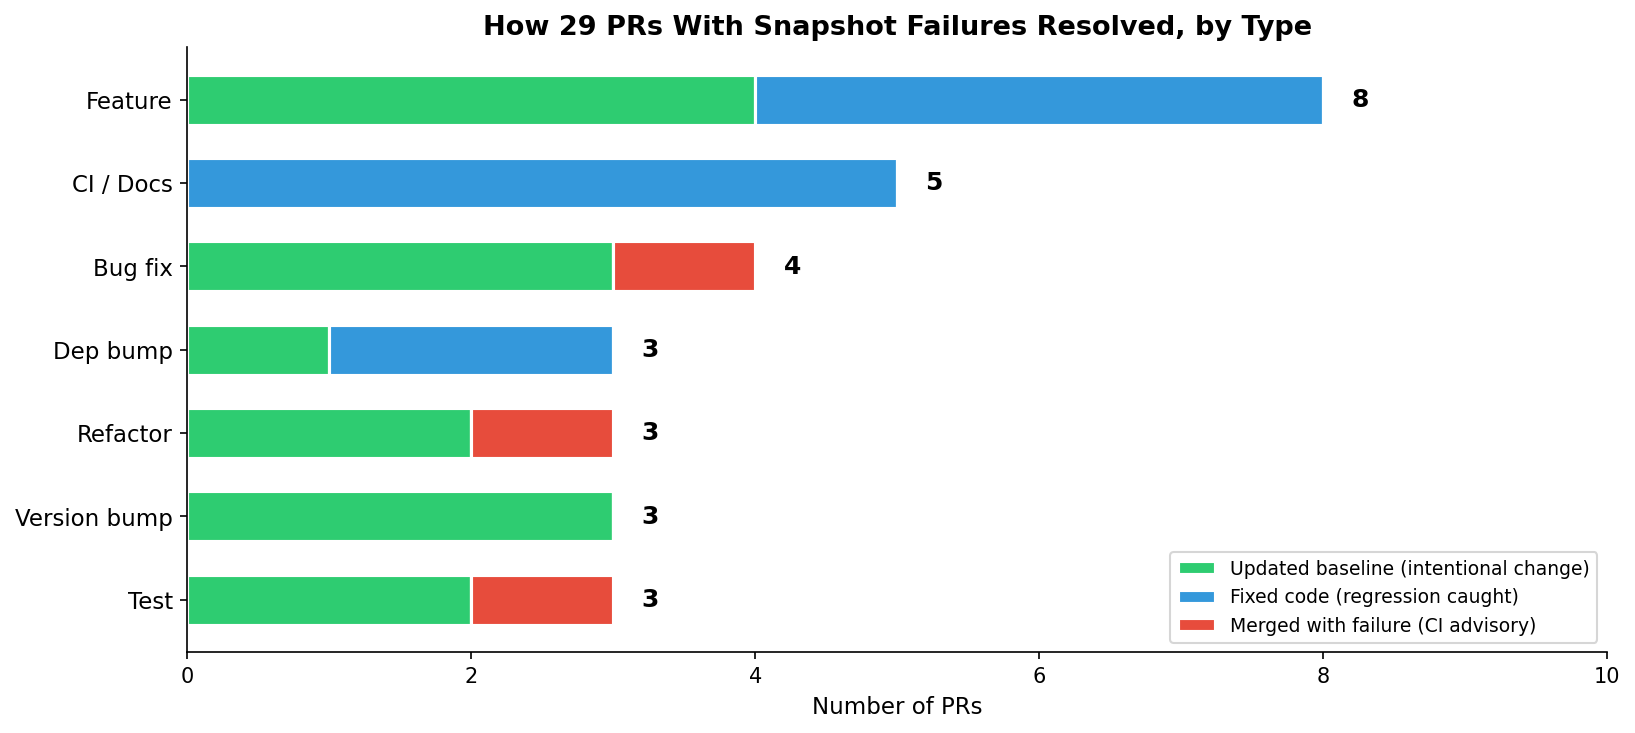
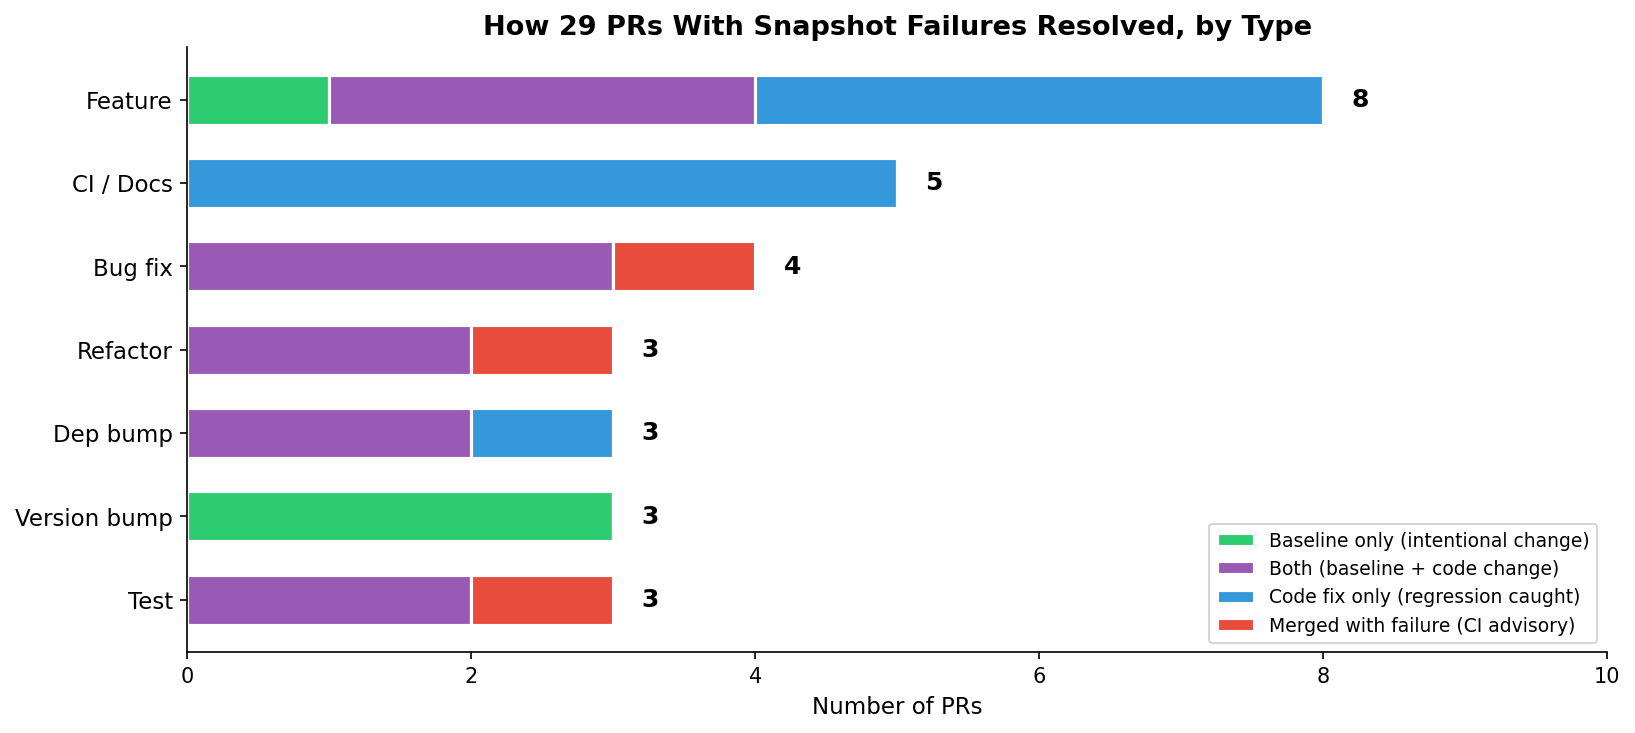
Add 'both' category to CI outcome classification
The old classifier forced a binary choice: if the PR had snapshot file
changes it was 'resolved_baseline', otherwise 'resolved_code_fix'.
This hid 12 PRs that did both (updated baselines AND changed code).

New four-category breakdown:
  4 (14%) baseline only
  12 (41%) both (baseline + code change)
  10 (34%) code fix only
  3 (10%) merged with failure

Uses test-level CI logs when available (9 PRs), falls back to
file-level heuristic (does the final diff contain both .svg snapshot
files and code files?) for the remaining 20 with expired logs.

diff --git a/scripts/generate_ci_outcome_graph.py b/scripts/generate_ci_outcome_graph.py
@@ -2,11 +2,18 @@
 """Generate a graph showing how snapshot CI failures were resolved,
 broken down by PR type.
 
-Uses both PR-level (v2) and test-level data where CI logs were
-available. Falls back to PR-level classification for older PRs.
+Uses test-level CI logs where available (9 PRs), falls back to
+file-level heuristics for the remaining 20 PRs with expired logs.
+
+Four resolution categories:
+  - baseline_only: only snapshot baselines updated, no code changes
+  - code_fix_only: only code changed, no snapshot file updates
+  - both: baseline updated AND code changed in the same PR
+  - merged: CI still failing when PR merged
 """
 
 import csv
+import json
 import matplotlib.pyplot as plt
 import numpy as np
 from pathlib import Path
@@ -17,9 +24,11 @@ OUT_DIR = Path("graphs")
 
 C_BASELINE = "#2ecc71"   # green
 C_CODE_FIX = "#3498db"   # blue
+C_BOTH = "#9B59B6"       # purple
 C_MERGED = "#e74c3c"     # red
 
-# Group small types for readability
+CODE_EXTS = (".py", ".tcss", ".ts", ".js", ".css")
+
 TYPE_GROUPS = {
     "feature": "Feature",
     "bug-fix": "Bug fix",
@@ -32,22 +41,46 @@ TYPE_GROUPS = {
 }
 
 
-def classify_pr(ci_row, test_level_row):
-    """Return 'baseline', 'code_fix', or 'merged' for a failed PR."""
+def classify_pr(ci_row, test_level_row, pr_files):
+    """Return 'baseline', 'code_fix', 'both', or 'merged' for a failed PR.
+
+    Uses test-level logs when available, otherwise falls back to
+    file-level heuristic (does the PR's final diff contain both
+    snapshot files and code files?).
+    """
     v2 = ci_row["classification"]
     if v2 == "merged_with_failure":
         return "merged"
 
     tl = test_level_row or {}
     has_logs = tl.get("logs_available") == "True"
+    n_bl = int(tl.get("num_resolved_baseline", 0))
     n_cf = int(tl.get("num_resolved_code_fix", 0))
 
-    if has_logs and n_cf > 0:
-        return "code_fix"
-    elif v2 == "resolved_code_fix":
-        return "code_fix"
-    else:
+    if has_logs and (n_bl + n_cf) > 0:
+        if n_bl > 0 and n_cf > 0:
+            return "both"
+        elif n_cf > 0:
+            return "code_fix"
+        else:
+            return "baseline"
+
+    # Fallback: file-level heuristic from PR diff
+    snap_files = [f for f in pr_files
+                  if "__snapshots__" in f.get("filename", "")
+                  and f["filename"].endswith(".svg")]
+    has_snap = len(snap_files) > 0
+    has_code = any(f["filename"].endswith(CODE_EXTS) for f in pr_files
+                   if "__snapshots__" not in f.get("filename", ""))
+
+    if has_snap and has_code:
+        return "both"
+    elif has_snap:
         return "baseline"
+    elif has_code:
+        return "code_fix"
+    # Edge case: only non-code, non-snapshot files (e.g. CI yaml)
+    return "code_fix" if v2 == "resolved_code_fix" else "baseline"
 
 
 def main():
@@ -57,61 +90,77 @@ def main():
         pr_data = {r["pr_number"]: r for r in csv.DictReader(f)}
     with open(DATA_DIR / "test_level_summary.csv") as f:
         test_level = {r["pr_number"]: r for r in csv.DictReader(f)}
+    with open(DATA_DIR / "mined_prs.json") as f:
+        mined = json.load(f)
+    pr_files_map = {str(p["pr_number"]): p.get("pr_files", [])
+                    for p in mined["pull_requests"]}
 
     has_ci = [r for r in ci_rows
               if "failure" in r["snapshot_ci_sequence"]
               or "success" in r["snapshot_ci_sequence"]]
     failed = [r for r in has_ci if r["ever_failed"] == "True"]
 
-    # Classify each failed PR and group by type
     type_baseline = defaultdict(int)
     type_code_fix = defaultdict(int)
+    type_both = defaultdict(int)
     type_merged = defaultdict(int)
 
     for r in failed:
         pr_num = r["pr_number"]
         raw_type = pr_data.get(pr_num, {}).get("llm_pr_type", "other")
         group = TYPE_GROUPS.get(raw_type, "Other")
-        cls = classify_pr(r, test_level.get(pr_num))
+        cls = classify_pr(r, test_level.get(pr_num), pr_files_map.get(pr_num, []))
 
         if cls == "baseline":
             type_baseline[group] += 1
         elif cls == "code_fix":
             type_code_fix[group] += 1
+        elif cls == "both":
+            type_both[group] += 1
         else:
             type_merged[group] += 1
 
-    # Order types by total count descending
     all_types = sorted(
-        set(list(type_baseline) + list(type_code_fix) + list(type_merged)),
-        key=lambda t: type_baseline[t] + type_code_fix[t] + type_merged[t],
+        set(list(type_baseline) + list(type_code_fix)
+            + list(type_both) + list(type_merged)),
+        key=lambda t: (type_baseline[t] + type_code_fix[t]
+                       + type_both[t] + type_merged[t]),
         reverse=True,
     )
 
-    baseline_vals = [type_baseline[t] for t in all_types]
-    code_fix_vals = [type_code_fix[t] for t in all_types]
-    merged_vals = [type_merged[t] for t in all_types]
+    bl_vals = [type_baseline[t] for t in all_types]
+    cf_vals = [type_code_fix[t] for t in all_types]
+    bo_vals = [type_both[t] for t in all_types]
+    mg_vals = [type_merged[t] for t in all_types]
 
     # --- Graph ---
     fig, ax = plt.subplots(figsize=(11, 5))
     y = np.arange(len(all_types))
     bar_h = 0.6
 
-    bars_bl = ax.barh(y, baseline_vals, bar_h,
-                      label="Updated baseline (intentional change)",
-                      color=C_BASELINE, edgecolor="white", linewidth=1.5)
-    bars_cf = ax.barh(y, code_fix_vals, bar_h, left=baseline_vals,
-                      label="Fixed code (regression caught)",
-                      color=C_CODE_FIX, edgecolor="white", linewidth=1.5)
-    bars_mg = ax.barh(y, merged_vals, bar_h,
-                      left=[b + c for b, c in zip(baseline_vals, code_fix_vals)],
-                      label="Merged with failure (CI advisory)",
-                      color=C_MERGED, edgecolor="white", linewidth=1.5)
+    left = [0] * len(all_types)
+    ax.barh(y, bl_vals, bar_h, left=left,
+            label="Baseline only (intentional change)",
+            color=C_BASELINE, edgecolor="white", linewidth=1.5)
+    left = [a + b for a, b in zip(left, bl_vals)]
 
-    # Annotate totals
-    for i, t in enumerate(all_types):
-        total = baseline_vals[i] + code_fix_vals[i] + merged_vals[i]
-        ax.text(total + 0.2, i, str(total),
+    ax.barh(y, bo_vals, bar_h, left=left,
+            label="Both (baseline + code change)",
+            color=C_BOTH, edgecolor="white", linewidth=1.5)
+    left = [a + b for a, b in zip(left, bo_vals)]
+
+    ax.barh(y, cf_vals, bar_h, left=left,
+            label="Code fix only (regression caught)",
+            color=C_CODE_FIX, edgecolor="white", linewidth=1.5)
+    left = [a + b for a, b in zip(left, cf_vals)]
+
+    ax.barh(y, mg_vals, bar_h, left=left,
+            label="Merged with failure (CI advisory)",
+            color=C_MERGED, edgecolor="white", linewidth=1.5)
+    left = [a + b for a, b in zip(left, mg_vals)]
+
+    for i in range(len(all_types)):
+        ax.text(left[i] + 0.2, i, str(left[i]),
                 va="center", fontsize=12, fontweight="bold")
 
     ax.set_yticks(y)
@@ -125,8 +174,7 @@ def main():
     ax.legend(loc="lower right", fontsize=9)
     ax.spines["top"].set_visible(False)
     ax.spines["right"].set_visible(False)
-    ax.set_xlim(0, max(b + c + m for b, c, m
-                       in zip(baseline_vals, code_fix_vals, merged_vals)) * 1.25)
+    ax.set_xlim(0, max(left) * 1.25)
 
     fig.tight_layout()
     out_path = OUT_DIR / "deep_19_ci_outcomes.png"
@@ -134,19 +182,20 @@ def main():
     plt.close(fig)
     print(f"Saved: {out_path}")
 
-    # Print summary
-    total_bl = sum(baseline_vals)
-    total_cf = sum(code_fix_vals)
-    total_mg = sum(merged_vals)
-    total = total_bl + total_cf + total_mg
+    total_bl = sum(bl_vals)
+    total_cf = sum(cf_vals)
+    total_bo = sum(bo_vals)
+    total_mg = sum(mg_vals)
+    total = total_bl + total_cf + total_bo + total_mg
     print(f"\n{total} PRs with snapshot failures:")
-    print(f"  {total_bl} ({100*total_bl/total:.0f}%) updated baseline")
-    print(f"  {total_cf} ({100*total_cf/total:.0f}%) fixed code")
+    print(f"  {total_bl} ({100*total_bl/total:.0f}%) baseline only")
+    print(f"  {total_bo} ({100*total_bo/total:.0f}%) both (baseline + code)")
+    print(f"  {total_cf} ({100*total_cf/total:.0f}%) code fix only")
     print(f"  {total_mg} ({100*total_mg/total:.0f}%) merged with failure")
     print(f"\nBy type:")
     for t in all_types:
-        bl, cf, mg = type_baseline[t], type_code_fix[t], type_merged[t]
-        print(f"  {t:<14} baseline={bl} code_fix={cf} merged={mg}")
+        bl, bo, cf, mg = type_baseline[t], type_both[t], type_code_fix[t], type_merged[t]
+        print(f"  {t:<14} baseline={bl} both={bo} code_fix={cf} merged={mg}")
 
 
 if __name__ == "__main__":
